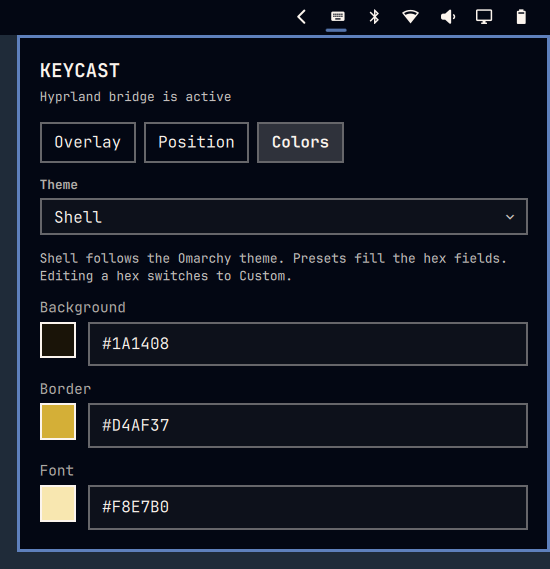
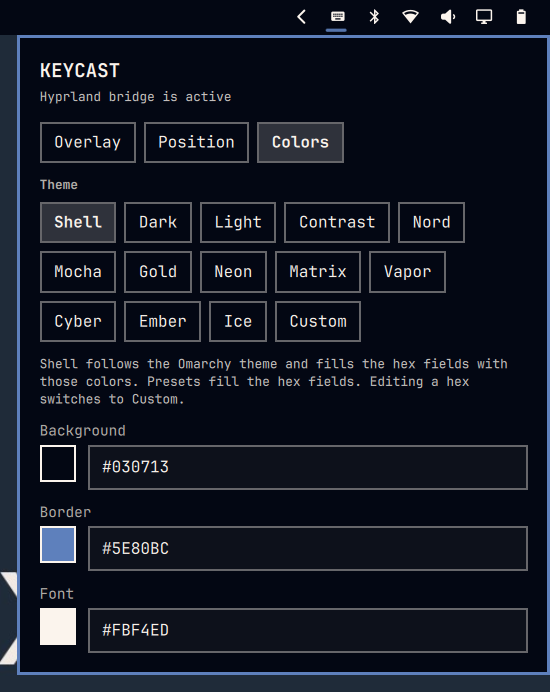
feature: neon, matrix, and extra overlay color palettes
- Add Neon, Matrix, Vapor, Cyber, Ember, and Ice presets
- Show every theme as wrapping chips instead of a scrolling dropdown
- Refresh the Colors screenshot and README caption

Changed region(s): [[0.0, 0.0, 1.0, 0.9859], [0.0, 0.8067, 0.0309, 0.8664], [0.9273, 0.5677, 0.9582, 0.5975]]

diff --git a/Panel.qml b/Panel.qml
@@ -2,6 +2,7 @@ import QtQuick
 import Quickshell
 import qs.Commons
 import qs.Ui
+import "Keys.js" as Keys
 
 Panel {
   id: root
@@ -82,7 +83,7 @@ Panel {
     PanelKeyCatcher {
       id: keyCatcher
       anchors.fill: parent
-      blocked: themeDropdown.popupOpen || bgHex.activeFocus || borderHex.activeFocus || fontHex.activeFocus || scaleField.field.activeFocus
+      blocked: bgHex.activeFocus || borderHex.activeFocus || fontHex.activeFocus || scaleField.field.activeFocus
       onCloseRequested: root.close()
 
       Flickable {
@@ -375,24 +376,36 @@ Panel {
               width: parent.width
               spacing: Style.space(10)
 
-              Dropdown {
-                id: themeDropdown
+              Column {
                 width: parent.width
-                label: "Theme"
-                foreground: root.fg
-                fontFamily: root.fontFamily
-                value: root.service ? root.service.colorTheme : "shell"
-                options: [
-                  { value: "shell", label: "Shell" },
-                  { value: "dark", label: "Dark" },
-                  { value: "light", label: "Light" },
-                  { value: "contrast", label: "Contrast" },
-                  { value: "nord", label: "Nord" },
-                  { value: "mocha", label: "Mocha" },
-                  { value: "gold", label: "Gold" },
-                  { value: "custom", label: "Custom" }
-                ]
-                onChanged: function(value) { if (root.service) root.service.setColorTheme(value) }
+                spacing: Style.spacing.md
+
+                Text {
+                  textFormat: Text.PlainText
+                  text: "Theme"
+                  color: Qt.darker(root.fg, 1.4)
+                  font.family: root.fontFamily
+                  font.pixelSize: Style.font.caption
+                  font.bold: true
+                }
+                Flow {
+                  width: parent.width
+                  spacing: Style.spacing.md
+
+                  Repeater {
+                    model: Keys.themeOptions()
+
+                    Button {
+                      required property var modelData
+                      text: modelData.label
+                      selected: root.service && root.service.colorTheme === String(modelData.value)
+                      bordered: true
+                      foreground: root.fg
+                      fontFamily: root.fontFamily
+                      onClicked: if (root.service) root.service.setColorTheme(modelData.value)
+                    }
+                  }
+                }
               }
               Text {
                 width: parent.width

diff --git a/Keys.js b/Keys.js
@@ -7,7 +7,23 @@ var EMPTY_LABELS = []
 var VERTICALS = ["top", "middle", "bottom"]
 var HORIZONTALS = ["left", "middle", "right"]
 var ACTION_POSITIONS = ["above", "below"]
-var COLOR_THEMES = ["shell", "dark", "light", "contrast", "nord", "mocha", "gold", "custom"]
+var COLOR_THEMES = ["shell", "dark", "light", "contrast", "nord", "mocha", "gold", "neon", "matrix", "vapor", "cyber", "ember", "ice", "custom"]
+var THEME_LABELS = {
+  shell: "Shell",
+  dark: "Dark",
+  light: "Light",
+  contrast: "Contrast",
+  nord: "Nord",
+  mocha: "Mocha",
+  gold: "Gold",
+  neon: "Neon",
+  matrix: "Matrix",
+  vapor: "Vapor",
+  cyber: "Cyber",
+  ember: "Ember",
+  ice: "Ice",
+  custom: "Custom"
+}
 var DEFAULT_HEX = {
   background: "#1A1A1A",
   border: "#6E6E6E",
@@ -19,7 +35,13 @@ var COLOR_PRESETS = {
   contrast: { background: "#000000", border: "#FFFFFF", font: "#FFFFFF" },
   nord: { background: "#2E3440", border: "#88C0D0", font: "#ECEFF4" },
   mocha: { background: "#1E1E2E", border: "#CBA6F7", font: "#CDD6F4" },
-  gold: { background: "#1A1408", border: "#D4AF37", font: "#F8E7B0" }
+  gold: { background: "#1A1408", border: "#D4AF37", font: "#F8E7B0" },
+  neon: { background: "#0A0018", border: "#FF00AA", font: "#00FFFF" },
+  matrix: { background: "#020B05", border: "#00FF41", font: "#C8FFC8" },
+  vapor: { background: "#1B0B2E", border: "#FF71CE", font: "#01CDFE" },
+  cyber: { background: "#0C0C14", border: "#FCEE09", font: "#E8F4FF" },
+  ember: { background: "#140604", border: "#FF4D00", font: "#FFE4C8" },
+  ice: { background: "#031018", border: "#5CE1FF", font: "#EAFBFF" }
 }
 var SCALE_MIN = 0.75
 var SCALE_MAX = 2
@@ -672,16 +694,12 @@ function resolvedOverlayColors(settings) {
 }
 
 function themeOptions() {
-  return [
-    { value: "shell", label: "Shell" },
-    { value: "dark", label: "Dark" },
-    { value: "light", label: "Light" },
-    { value: "contrast", label: "Contrast" },
-    { value: "nord", label: "Nord" },
-    { value: "mocha", label: "Mocha" },
-    { value: "gold", label: "Gold" },
-    { value: "custom", label: "Custom" }
-  ]
+  var out = []
+  for (var i = 0; i < COLOR_THEMES.length; i++) {
+    var value = COLOR_THEMES[i]
+    out.push({ value: value, label: THEME_LABELS[value] || value })
+  }
+  return out
 }
 
 if (typeof module !== "undefined") {

diff --git a/tests/keys.js b/tests/keys.js
@@ -175,7 +175,15 @@ assert(Keys.colorToHex({ r: 0, g: 0, b: 0 }) === "#000000", "color object black"
 assert(Keys.colorToHex("#abc") === "#AABBCC", "color string short")
 assert(Keys.presetColors("dark").border === "#6E6E6E", "dark preset")
 assert(Keys.resolvedOverlayColors({ colorTheme: "gold" }).border === "#D4AF37", "gold border")
-assert(Keys.themeOptions().length === 8, "theme option count")
+assert(Keys.resolvedOverlayColors({ colorTheme: "neon" }).border === "#FF00AA", "neon border")
+assert(Keys.resolvedOverlayColors({ colorTheme: "matrix" }).font === "#C8FFC8", "matrix font")
+assert(Keys.resolvedOverlayColors({ colorTheme: "vapor" }).background === "#1B0B2E", "vapor bg")
+assert(Keys.resolvedOverlayColors({ colorTheme: "cyber" }).border === "#FCEE09", "cyber border")
+assert(Keys.resolvedOverlayColors({ colorTheme: "ember" }).border === "#FF4D00", "ember border")
+assert(Keys.resolvedOverlayColors({ colorTheme: "ice" }).border === "#5CE1FF", "ice border")
+assert(Keys.themeOptions().length === 14, "theme option count")
+assert(Keys.themeOptions()[7].value === "neon", "theme neon slot")
+assert(Keys.themeOptions()[13].value === "custom", "theme custom last")
 
 assert(Keys.comboToLabels("SUPER+K").join(",") === "Super,K", "labels super k")
 assert(Keys.comboToLabels("SUPER+LEFT").join(",") === "Super,Left", "labels super left")

diff --git a/README.md b/README.md
@@ -27,9 +27,10 @@ and opens a spin field for 0.5-5.*
 
 ![Color settings](screenshots/settings-colors.png)
 
-*Colors page - Shell follows the Omarchy theme and fills background, border,
-and font with the colors in use. Other presets fill those hex fields too.
-Editing a hex value switches to Custom.*
+*Colors page - every palette is a chip: Shell follows the Omarchy theme and
+fills background, border, and font with the colors in use. Neon, Matrix,
+Vapor, and the other presets fill those hex fields too. Editing a hex value
+switches to Custom.*
 
 ## Features
 
@@ -43,7 +44,7 @@ Editing a hex value switches to Custom.*
 - Overlay scale (`1x` / `1.25x` / `1.5x` / `1.75x` / `2x` / custom 0.5-5)
 - Optional shortcut action from Hyprland bind descriptions (same source as Super+K)
 - Action placement above or below the keycaps
-- Color themes (Shell, Dark, Light, Contrast, Nord, Mocha, Gold) plus custom hex for background, border, and font
+- Color themes (Shell, Dark, Light, Contrast, Nord, Mocha, Gold, Neon, Matrix, Vapor, Cyber, Ember, Ice) plus custom hex for background, border, and font
 - Settings panel can show a live overlay preview of a random real hotkey while open
 - Short linger after release (default 600 ms) so quick taps stay visible on video
 - Left-click the bar icon to toggle the overlay
@@ -135,7 +136,7 @@ Persisted on the bar entry in `~/.config/omarchy/shell.json`:
 | `actionEnabled` | `true` / `false` | `true` |
 | `previewEnabled` | `true` / `false` | `true` |
 | `actionPosition` | `above` / `below` | `below` |
-| `colorTheme` | `shell` / `dark` / `light` / `contrast` / `nord` / `mocha` / `gold` / `custom` | `shell` |
+| `colorTheme` | `shell` / `dark` / `light` / `contrast` / `nord` / `mocha` / `gold` / `neon` / `matrix` / `vapor` / `cyber` / `ember` / `ice` / `custom` | `shell` |
 | `backgroundColor` | `#RRGGBB` | `#1A1A1A` |
 | `borderColor` | `#RRGGBB` | `#6E6E6E` |
 | `fontColor` | `#RRGGBB` | `#F5F5F5` |
